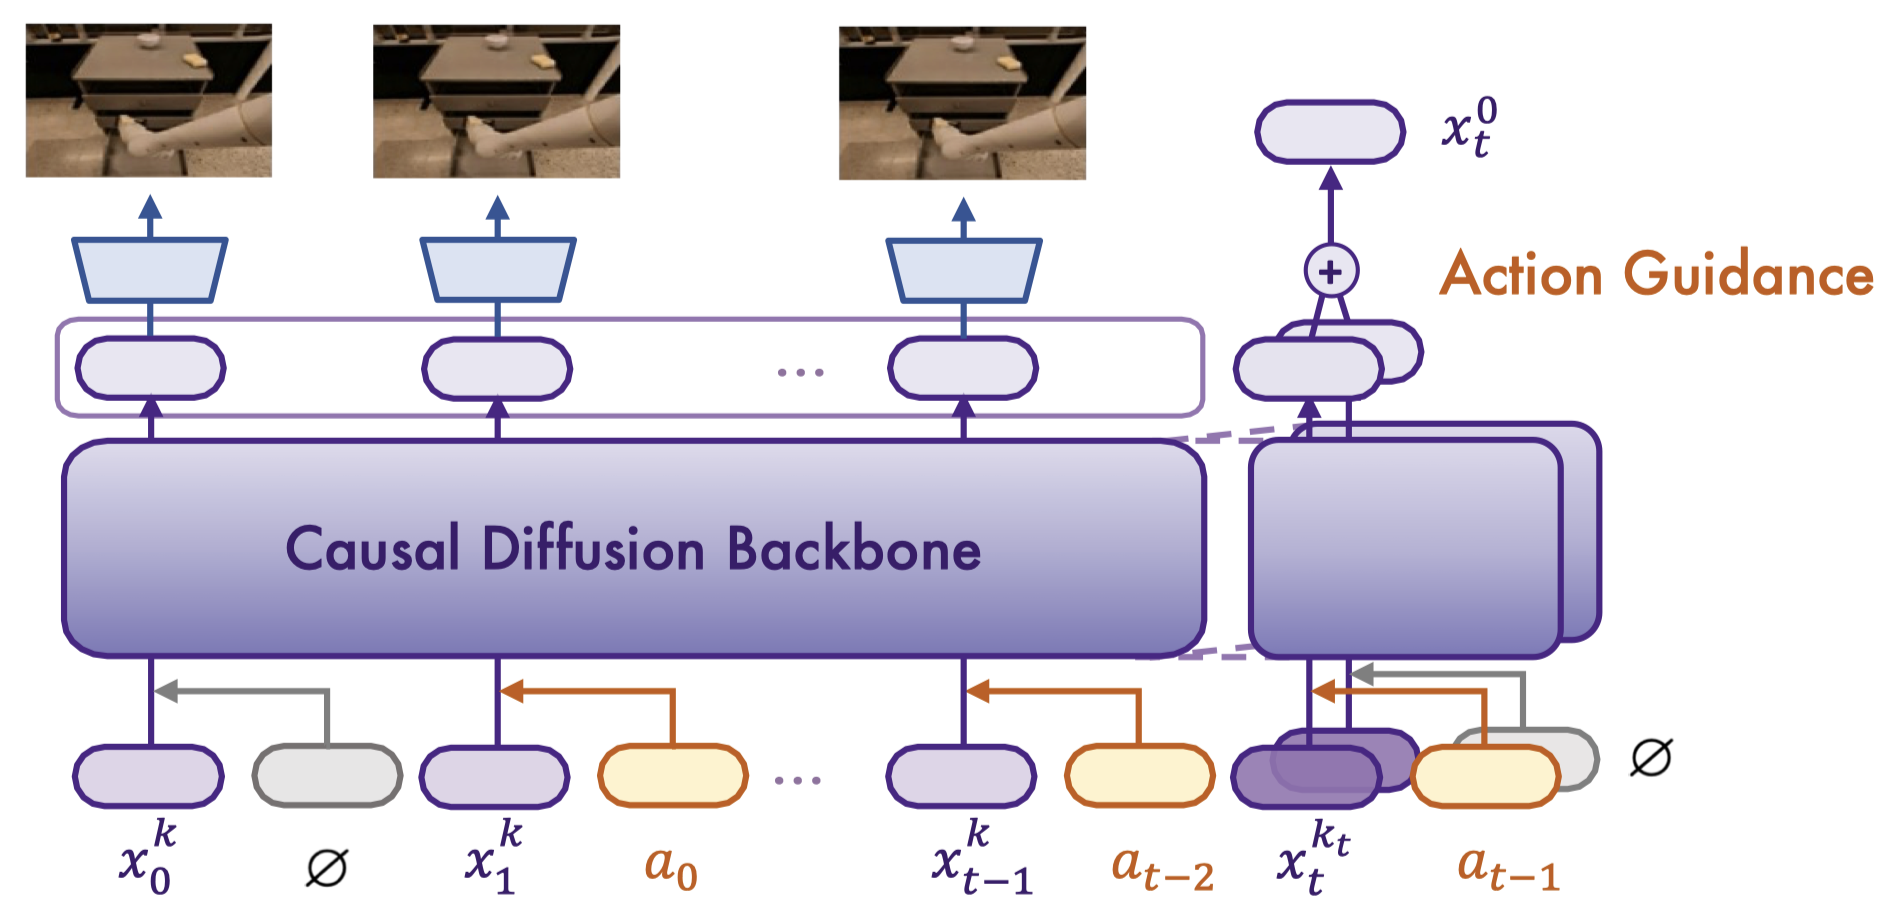
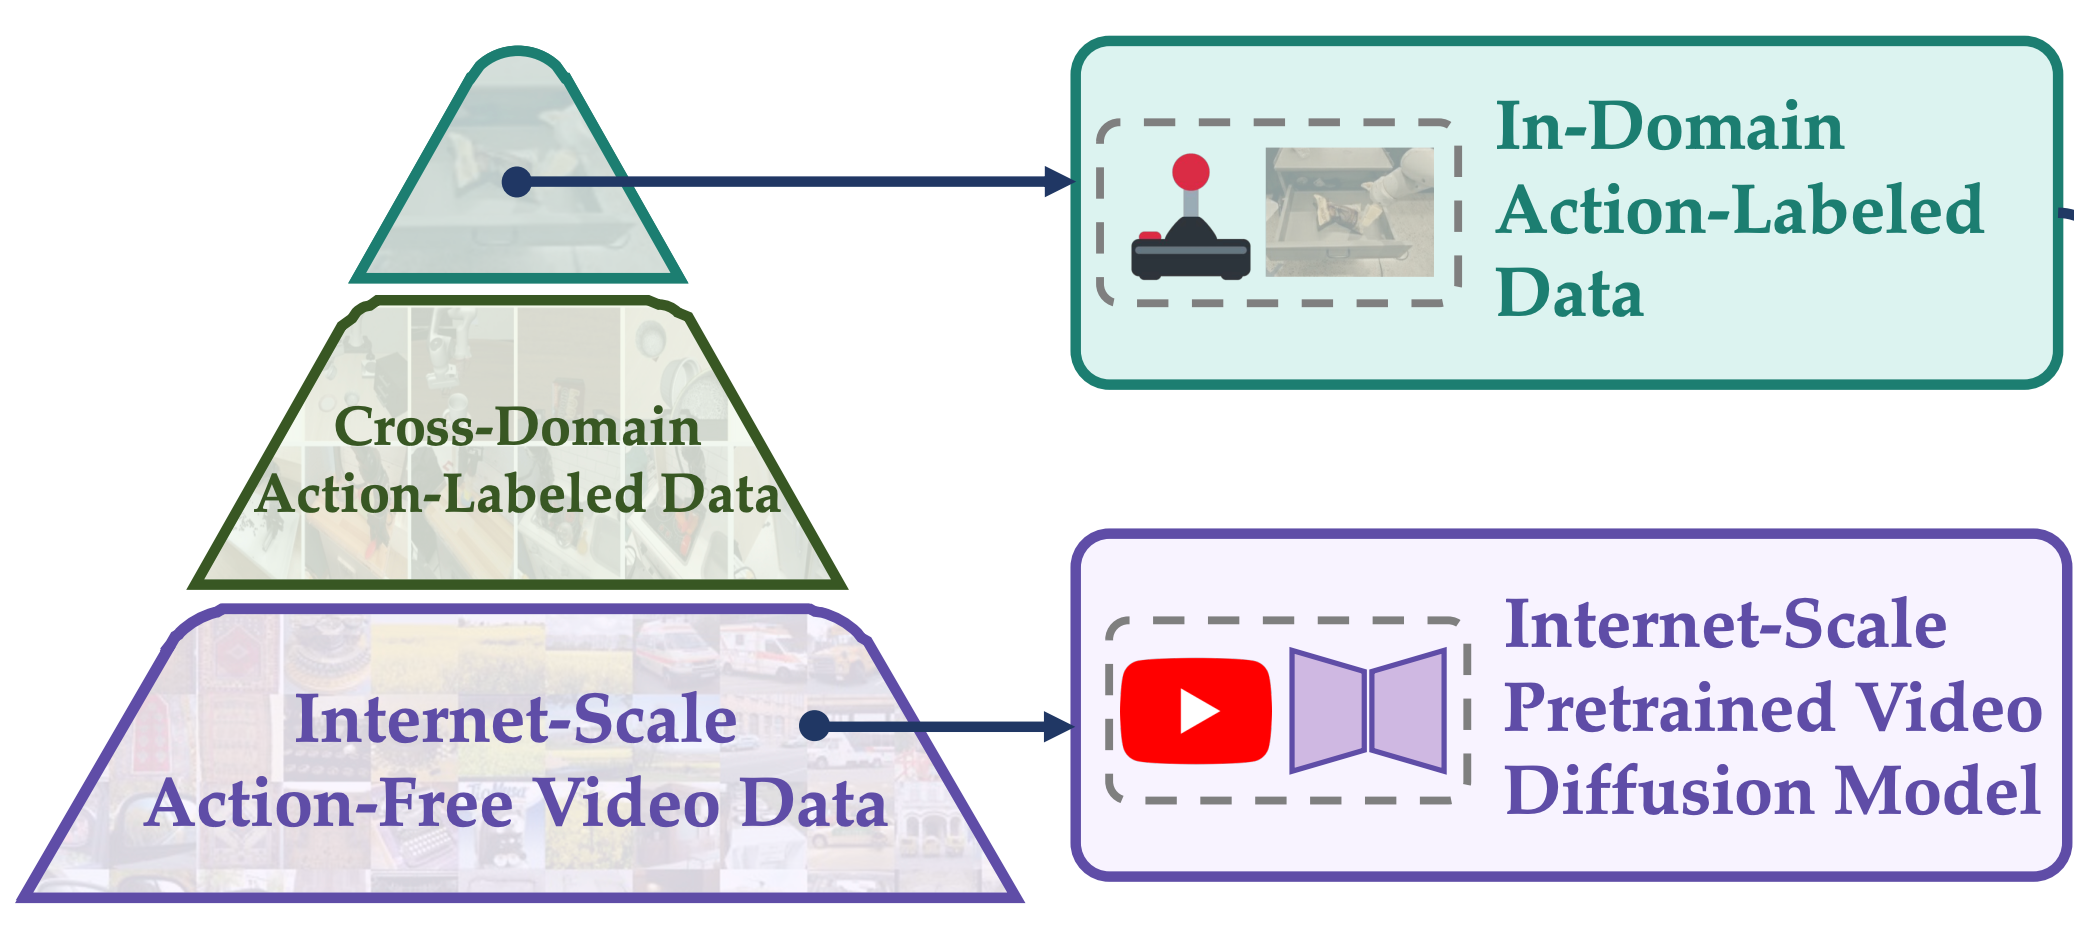
update

diff --git a/_includes/projects.md b/_includes/projects.md
@@ -3,6 +3,13 @@
 </h2>
 
 <ul>
+<li><strong><a href="https://github.com/thuml/MiniVeo3-Reasoner" target="_blank">MiniVeo3-Reasoner: Thinking with Videos from Open-Source Priors</a></strong>&nbsp;&nbsp;<img style="height:1em" alt="GitHub stars" src="https://img.shields.io/github/stars/thuml/MiniVeo3-Reasoner?style=social">
+<br/>
+We reproduce chain-of-frames visual reasoning by fine-tuning open-source video models. 
+</li>
+</ul>
+
+<ul>
 <li><strong><a href="https://github.com/thuml/awesome-multi-task-learning" target="_blank">Awesome Multi-task Learning</a></strong>&nbsp;&nbsp;<img style="height:1em" alt="GitHub stars" src="https://img.shields.io/github/stars/thuml/awesome-multi-task-learning?style=social">
 <br/>
 A curated list of datasets, codebases, and papers on Multi-Task Learning (MTL), from a Machine Learning perspective. 
